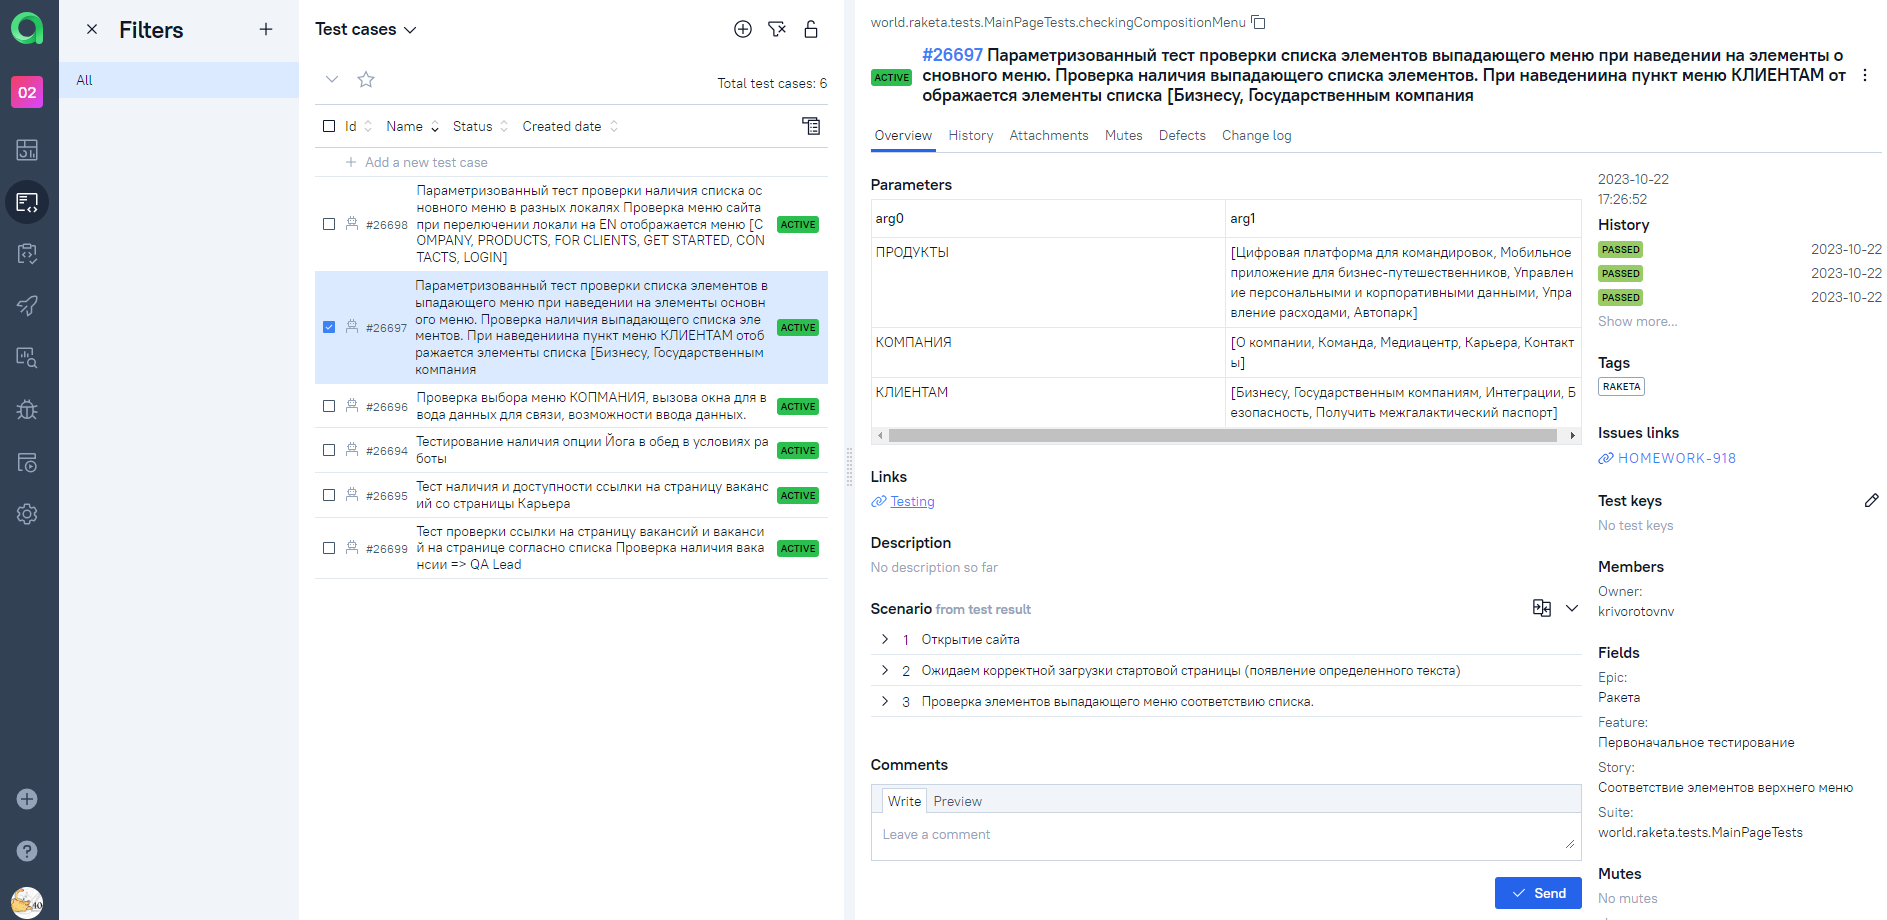
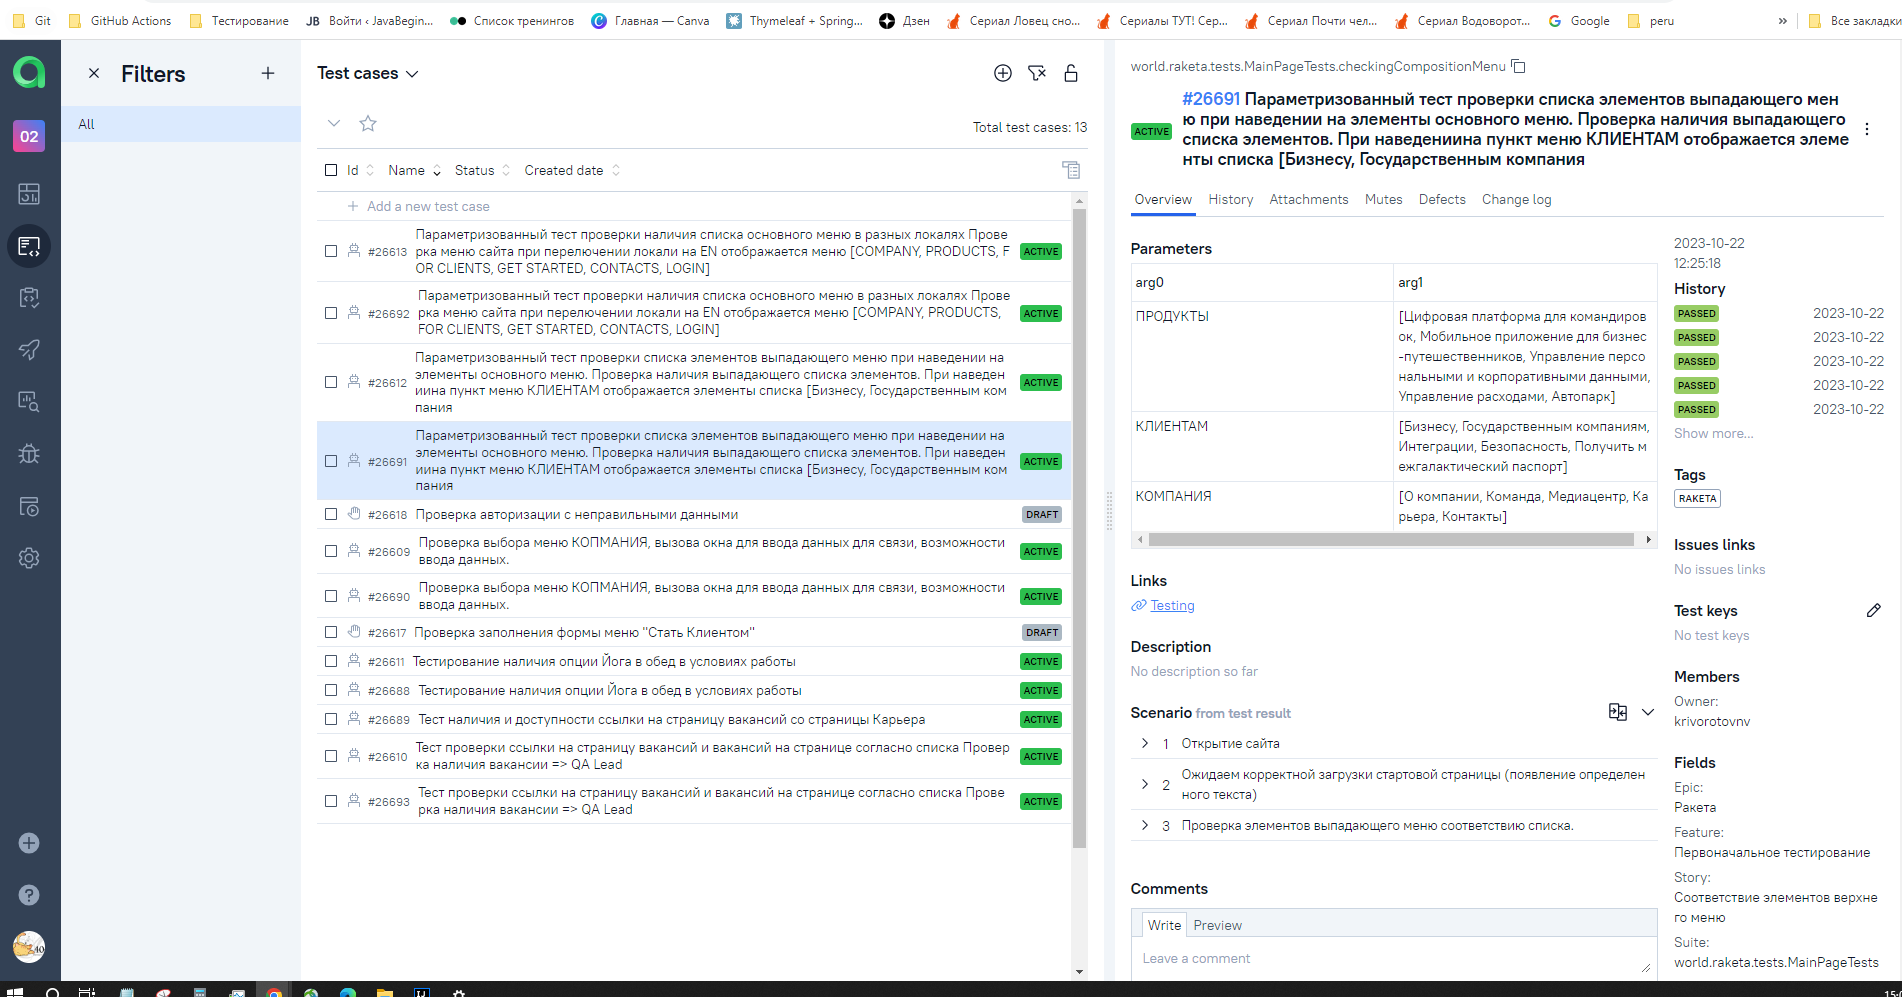
доработка

diff --git a/src/test/java/world/raketa/tests/VacancyTests.java b/src/test/java/world/raketa/tests/VacancyTests.java
@@ -4,11 +4,15 @@ import io.qameta.allure.*;
 import org.junit.jupiter.api.DisplayName;
 import org.junit.jupiter.api.Tag;
 import org.junit.jupiter.api.Tags;
-
+import org.junit.jupiter.api.Test;
 import org.junit.jupiter.params.ParameterizedTest;
-
 import org.junit.jupiter.params.provider.ValueSource;
-import world.raketa.pages.*;
+import world.raketa.pages.CareerPage;
+import world.raketa.pages.MainPage;
+import world.raketa.pages.VacancyListPage;
+import world.raketa.pages.VacancyQAPage;
+
+import static com.codeborne.selenide.Selenide.open;
 import static io.qameta.allure.Allure.step;
 
 @Epic("Ракета")
@@ -16,10 +20,12 @@ import static io.qameta.allure.Allure.step;
 @Owner("krivorotovnv")
 @Link(value = "Testing", url = "https://raketa.world")
 @Severity(SeverityLevel.BLOCKER)
-public class VacancyListPageTests extends BaseTest {
+public class VacancyTests extends BaseTest {
     MainPage mainPage = new MainPage();
     CareerPage careerPage = new CareerPage();
     VacancyListPage vacancyListPage = new VacancyListPage();
+
+    VacancyQAPage vacancyQAPage = new VacancyQAPage();
 
     @ValueSource(
             strings = {
@@ -65,6 +71,59 @@ public class VacancyListPageTests extends BaseTest {
         step("Проверка наличия ссылки на вакансии QA automation engineer);", () -> {
             vacancyListPage
                     .findVacancy(vacancy);
+        });
+
+    }
+
+    @Story("Проверка ссылкки на страницу вакансий")
+    @DisplayName("Тест наличия и доступности ссылки на страницу вакансий со страницы Карьера")
+    @Tags({
+            @Tag("raketa")
+    })
+    @Test
+    void availabilityLinkToVacanciesAndListVacancy() {
+        step("Открытие сайта", () -> {
+            mainPage
+                    .openPage();
+        });
+        step("Ожидаем корректной загрузки стартовой страницы (появление определенного текста) ", () -> {
+            mainPage
+                    .waitingForTheSiteToLoad();
+        });
+
+        step("Первый пункт основного меню. В выпадающем списке находим Карьера, проверяем видимость и выбираем", () -> {
+            mainPage
+                    .career();
+        });
+        step("Ожидаем корректной загрузки страницы Карьера (появление определенного текста) ", () -> {
+            careerPage
+                    .waitingForThePageCareerLoad();
+        });
+
+        step("Проверка наличия и доступности ссылки на страницу Вакансии", () -> {
+            careerPage
+                    .linkVacancyEnabled();
+        });
+
+    }
+
+    @Story("Проверка наличия главного условия в работе QA automation engineer")
+    @Link(value = "Testing", url = "https://job.raketa.world/qaautomation")
+    @DisplayName("Тестирование наличия опции Йога в обед в условиях работы")
+    @Tags({
+            @Tag("raketa"),
+            @Tag("smoke"),
+
+    })
+    @Test
+    void mainConditionOfWork() {
+        step("Открытие сайта на странице карьера", () -> {
+            open("https://job.raketa.world/qaautomation");
+        });
+
+        step("Поиск ключевого условия Йога в обед в предложениях вакансии", () -> {
+            vacancyQAPage
+                    .yogaAtLunch();
         });
 
     }

diff --git a/src/test/java/world/raketa/tests/CompanyPageTests.java b/src/test/java/world/raketa/tests/CompanyPageTests.java
@@ -19,7 +19,7 @@ public class CompanyPageTests extends BaseTest {
 
 
     @Story("Заполнение формы обратной связи")
-    @DisplayName("Проверка выбора меню КОПМАНИЯ, вызова окна для ввода данных для связи, возможности ввода данных.")
+    @DisplayName("Проверка выбора меню КОМПАНИЯ, вызова окна для ввода данных для связи, возможности ввода данных.")
     @Tags({
             @Tag("raketa")
     })
@@ -45,12 +45,12 @@ public class CompanyPageTests extends BaseTest {
 
         step("Нажимаем на кнопку вызова окна ввода данных для связи ", () -> {
             companyPage
-                    .callingInpitTab();
+                    .callingInputTab();
         });
 
         step("Проверяем загрузку и видимость окна", () -> {
             companyPage
-                    .checkVisibleInpitTab();
+                    .checkVisibleInputTab();
         });
 
         step("Заполняем поля формы. Поле email вводим не правильно, чтобы форма не отправлялась и жмем отправить", () -> {
@@ -60,7 +60,7 @@ public class CompanyPageTests extends BaseTest {
 
         step("Так как заполнено не корректно, проверяем, что форма видна ", () -> {
             companyPage
-                    .checkVisibleInpitTab();
+                    .checkVisibleInputTab();
         });
 
     }

diff --git a/src/test/java/world/raketa/pages/CompanyPage.java b/src/test/java/world/raketa/pages/CompanyPage.java
@@ -16,8 +16,8 @@ SelenideElement
         tabInput = $(".t702__wrapper"),
         fieldName = tabInput.$("[name=Name]"),
         fieldEmail = tabInput.$("[name=Email]"),
-        fildPhone = tabInput.$("[name=Phone]"),
-        fildInput = tabInput.$("[name=Input]"),
+        fieldPhone = tabInput.$("[name=Phone]"),
+        fieldInput = tabInput.$("[name=Input]"),
         fieldCheckBox = tabInput.$(".t-checkbox__indicator"),
         buttonSubmit = tabInput.$("[type=submit]");
 
@@ -28,12 +28,12 @@ SelenideElement
         fieldText.first().shouldHave(text("Компания Ракета – российский разработчик"));
         return this;
     }
-    public CompanyPage callingInpitTab() {
+    public CompanyPage callingInputTab() {
         button.scrollTo().click();
         return this;
     }
 
-    public CompanyPage checkVisibleInpitTab() {
+    public CompanyPage checkVisibleInputTab() {
         tabInput.shouldBe(visible, Duration.ofSeconds(10));
         return this;
     }
@@ -43,8 +43,8 @@ SelenideElement
 
         fieldName.setValue(dataGenerationUtils.getFirstName());
         fieldEmail.setValue("Не правильный email");
-        fildPhone.setValue(dataGenerationUtils.getUserNumber());
-        fildInput.setValue("Компания");
+        fieldPhone.setValue(dataGenerationUtils.getUserNumber());
+        fieldInput.setValue("Компания");
         fieldCheckBox.scrollTo().click();
         buttonSubmit.click();
         return this;

diff --git a/src/test/java/world/raketa/config/WebConfigForProject.java b/src/test/java/world/raketa/config/WebConfigForProject.java
@@ -17,14 +17,12 @@ public class WebConfigForProject {
 
         Configuration.baseUrl = webConfig.getBaseUrl();
         Configuration.browser = webConfig.getBrowser().toString();
+        Configuration.browserVersion = webConfig.getBrowserVersion();
         Configuration.browserSize = webConfig.getBrowserSize();
         Configuration.pageLoadStrategy = "eager";
 
         if (webConfig.isRemote()) {
-            Configuration.browser = webConfig.getBrowser().toString();
-            Configuration.browserVersion = webConfig.getBrowserVersion();
             Configuration.remote = webConfig.getRemoteUrl();
-
             DesiredCapabilities capabilities = new DesiredCapabilities();
             capabilities.setCapability("selenoid:options", Map.<String, Object>of(
                     "enableVNC", true,

diff --git a/src/test/java/world/raketa/config/WebConfig.java b/src/test/java/world/raketa/config/WebConfig.java
@@ -16,12 +16,8 @@ public interface WebConfig extends Config {
     String getBaseUrl();
 
     @Key("browser")
-    @DefaultValue("YA")
+    @DefaultValue("CHROME")
     Browser getBrowser();
-
-    @Key("remoteUrl")
-    @DefaultValue("http://localhost:4444")
-    URL getRemoteURL();
 
     @Key("browserVersion")
     @DefaultValue("100.0")

diff --git a/src/test/java/world/raketa/pages/CareerPage.java b/src/test/java/world/raketa/pages/CareerPage.java
@@ -36,7 +36,6 @@ public class CareerPage {
         String win1 = null;
         String win2 = null;
         for (String windowHandle : windowHandles) {
-            //System.out.println("Window handle: " + windowHandle);
             if (c == 1) {
                 win1 = windowHandle;
             } else {

diff --git a/src/test/java/world/raketa/config/Browser.java b/src/test/java/world/raketa/config/Browser.java
@@ -6,6 +6,7 @@ public enum Browser {
 
     CHROME,
 
-    EDGE
+    EDGE,
+    IE
 
 }

diff --git a/README.md b/README.md
@@ -1,6 +1,8 @@
 
 <h1> Проект по автоматизации тестовых сценариев для сайта цифровой платформы для организации командировок и управления расходами  </h1>
 
+* ### https://raketa.world/ – тестируемый ресурс.
+
 ## :pushpin: Содержание:
 
 - [Использованный стек технологий](#computer-использованный-стек-технологий)
@@ -67,30 +69,31 @@ gradle clean run_raketa  -Denv=remote
 
 
 
-## <img src="media/logo/Jenkins.svg" title="Jenkins" width="4%"/> Сборка в Jenkins
+## <img src="media/logo/Jenkins.svg" title="Jenkins" width="4%"/> <a href="https://jenkins.autotests.cloud/job/021-knvik-jenkins_raketa_all_alltops_jira_tg_owner_conf/" target="_blank" rel="noopener"><span>Сборка в Jenkins</span> </a>
 
 Для запуска сборки необходимо перейти в раздел Собрать с параметрами и нажать кнопку Собрать.
 
-* <code>${TASK}</code> – выбор задачи.
-* <code>${REMOTE}</code> – установлен выбор запуска на удаленном Selenoid.
+####   Доступные для изменения параметры :
+* <code>TASK</code> – выбор задачи.
+
 
 Запускается профиль remote. Остальные параметры считываются из файла конфигурации
 
 <kbd>[![](media/screens/jenkins1.PNG)](https://jenkins.autotests.cloud/job/021-knvik-jenkins_raketa_all_alltops_jira_tg_owner_conf/)</kbd>
 
 ## <img src="media/logo/Allure_Report.svg" title="Allure Report" width="4%"/> Пример Allure-отчета
-### Overview
+##### <a href="https://jenkins.autotests.cloud/job/021-knvik-jenkins_raketa_all_alltops_jira_tg_owner_conf/8/allure/#" target="_blank" rel="noopener"><span>Overview</span> </a>
 
 
 
 <kbd>[![](media/screens/Allure1.PNG)](https://jenkins.autotests.cloud/job/021-knvik-jenkins_raketa_all_alltops_jira_tg_owner_conf/8/allure/)</kbd>
 
-### Результат выполнения теста
+#####  <a href="https://jenkins.autotests.cloud/job/021-knvik-jenkins_raketa_all_alltops_jira_tg_owner_conf/8/allure/#suites/99d55f6db0c04008985fd906f3e2dc5e/ce8113689735c9e3/" target="_blank" rel="noopener"><span>Результат выполнения теста</span> </a>
 
 <kbd>[![](media/screens/Allure2.PNG)](https://jenkins.autotests.cloud/job/021-knvik-jenkins_raketa_all_alltops_jira_tg_owner_conf/8/allure/#suites/99d55f6db0c04008985fd906f3e2dc5e/ce8113689735c9e3/
 )</kbd>
 
-
+#### <a href="https://jenkins.autotests.cloud/job/021-knvik-jenkins_raketa_all_alltops_jira_tg_owner_conf/8/allure/#behaviors/aa35b6349be711bd68148bf5dae0d52a/c3f695d8d094a2ff/" target="_blank" rel="noopener"><span>Behaviors</span> </a>
 
 <kbd>[![](media/screens/Allure3.PNG)](https://jenkins.autotests.cloud/job/021-knvik-jenkins_raketa_all_alltops_jira_tg_owner_conf/8/allure/#behaviors/aa35b6349be711bd68148bf5dae0d52a/c3f695d8d094a2ff/
 )</kbd>
@@ -101,9 +104,11 @@ gradle clean run_raketa  -Denv=remote
 Результат выполнения автотестов отображается в <code>Allure TestOps</code>
 На Dashboard в <code>Allure TestOps</code> отображена статистика пройденных тестов.
 
+##### <a href="https://allure.autotests.cloud/project/3728/dashboard" target="_blank" rel="noopener"><span>Dashboards</span> </a>
 
 <kbd>[![](media/screens/AllureTestOpsDash.PNG)](https://allure.autotests.cloud/project/3728/dashboard)</kbd>
 
+##### <a href="https://allure.autotests.cloud/project/3728/test-cases/26697?treeId=0" target="_blank" rel="noopener"><span>Test cases</span> </a>
 
 <kbd>[![](media/screens/AllureTestOps.PNG)](https://allure.autotests.cloud/project/3728/test-cases/26697?treeId=0)</kbd>
 
@@ -111,7 +116,7 @@ gradle clean run_raketa  -Denv=remote
 
 Реализована интеграция <code>Allure TestOps</code> с <code>Jira</code>, в тикете отображается информация, какие тест-кейсы были написаны в рамках задачи и результат их прогона.
 
-
+##### <a href="https://jira.autotests.cloud/browse/HOMEWORK-918" target="_blank" rel="noopener"><span>Jira</span> </a>
 
 <kbd>[![](media/screens/Jira.PNG)](https://jira.autotests.cloud/browse/HOMEWORK-918)</kbd>
 
